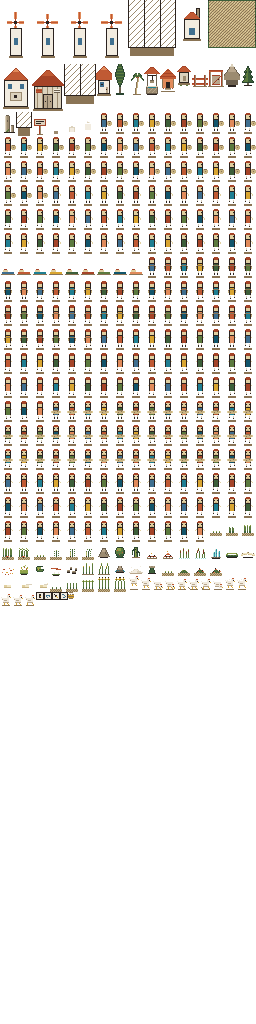
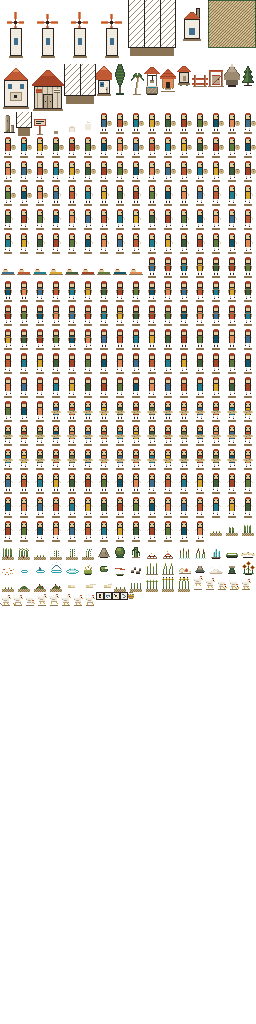
Add sunflower, shell and leaping-fish decor props (#61)
- prop.sunflowers: summer-only (season 1) patch on open grass, away from forest edge
- prop.shells: scallop, starfish and spiral shell on sand touching water
- prop.fishSplash: four-frame leap on sparse deep water, staggered per tile
  via propFrame() so the sea does not animate in unison
- New rolls are appended after existing ones so current decor placement is unchanged

Claude-Session: https://claude.ai/code/session_019h86th9zYu76KdLHc5i7bM

Changed region(s): [[0.0, 0.5312, 1.0, 0.5938]]

diff --git a/tools/genart/sprites/props.ts b/tools/genart/sprites/props.ts
@@ -543,6 +543,125 @@ export const STANDING_STONE: SpriteGrid = grid(16, 24, {
   for (let x = 4; x <= 14; x += 1) set(x, 20, 'i');
 });
 
+/** Summer sunflower patch. 16×16, anchorY 0 — the season slot between spring flowers and autumn leaves. */
+export const SUNFLOWERS: SpriteGrid = grid(16, 16, {
+  w: P.wheat,
+  l: P.terraLight,
+  d: P.terraDeep,
+  k: P.vegDarkest,
+  v: P.vegDark,
+  m: P.vegMid,
+  g: P.vegLight,
+  i: P.ink,
+}, (set) => {
+  // [centre x, centre y, stalk base y]: a tall head flanked by two shorter ones.
+  const heads: Array<[number, number, number]> = [[8, 3, 13], [4, 6, 13], [12, 7, 13]];
+  for (const [cx, cy, base] of heads) {
+    for (let y = cy + 2; y <= base; y += 1) set(cx, y, y % 2 === 0 ? 'k' : 'v');
+    // Petals around a dark seed disc, with warmer corners for depth.
+    for (const [dx, dy] of [[0, -2], [0, 2], [-2, 0], [2, 0], [-1, -1], [1, -1], [-1, 1], [1, 1]]) {
+      set(cx + dx, cy + dy, dx !== 0 && dy !== 0 ? 'l' : 'w');
+    }
+    set(cx, cy, 'd');
+    set(cx - 1, cy, 'd');
+    set(cx + 1, cy, 'd');
+    set(cx, cy - 1, 'd');
+    set(cx, cy + 1, 'd');
+  }
+  // Leaves on the tall stalk and a tuft of grass at the base.
+  set(7, 8, 'g');
+  set(6, 9, 'g');
+  set(9, 9, 'g');
+  set(10, 10, 'g');
+  for (let x = 3; x <= 13; x += 1) set(x, 13, x % 2 === 0 ? 'v' : 'm');
+  for (let x = 5; x <= 11; x += 1) set(x, 14, 'i');
+});
+
+/** Scallop shell, starfish and a spiral shell washed up on the beach. 16×16, anchorY 0. */
+export const SHELLS: SpriteGrid = grid(16, 16, {
+  w: P.whitewash,
+  p: P.sandPale,
+  l: P.terraLight,
+  t: P.terraMid,
+  d: P.terraDark,
+  r: P.sandMid,
+  c: P.sandShadow,
+}, (set) => {
+  // Scallop: a pale fan with ribs, widening towards the rim, and a hinge.
+  const fan = [1, 2, 3, 3];
+  fan.forEach((half, row) => {
+    const y = 8 + row;
+    for (let x = 6 - half; x <= 5 + half; x += 1) {
+      const edge = x === 6 - half || x === 5 + half || row === 0;
+      set(x, y, edge ? 'r' : x % 2 === 0 ? 'p' : 'w');
+    }
+  });
+  set(5, 12, 'r');
+  set(6, 12, 'r');
+  // Starfish: five arms around a dark centre.
+  for (const [sx, sy] of [[10, 8], [9, 9], [11, 9], [9, 11], [11, 11]]) set(sx, sy, 'l');
+  for (const [sx, sy] of [[10, 9], [10, 10], [9, 10], [11, 10], [10, 11]]) set(sx, sy, 't');
+  set(10, 10, 'd');
+  // Small spiral shell.
+  set(13, 12, 'w');
+  set(14, 12, 'p');
+  set(13, 11, 'p');
+  set(14, 11, 'r');
+  for (let x = 3; x <= 14; x += 1) set(x, 13, 'c');
+});
+
+/** Ellipse outline centred on (cx, cy) — the ripple rings around a leaping fish. */
+function ripple(set: (x: number, y: number, k: string) => void, cx: number, cy: number, rx: number, ry: number, key: string): void {
+  for (let x = cx - rx; x <= cx + rx; x += 1) {
+    const dy = Math.round(ry * Math.sqrt(1 - ((x - cx) / rx) ** 2));
+    set(x, cy - dy, key);
+    set(x, cy + dy, key);
+  }
+}
+
+/**
+ * A fish leaping from deep water: faint ripple → fish rising → arc with spray →
+ * rings spreading. 16×16, anchorY 0, four frames. The renderer staggers each tile's
+ * phase so the sea doesn't pulse in unison.
+ */
+function fishSplash(frame: number): SpriteGrid {
+  return grid(16, 16, {
+    f: P.foam,
+    w: P.whitewash,
+    b: P.shutter,
+    c: P.seaShallow,
+  }, (set) => {
+    if (frame === 0) {
+      ripple(set, 8, 11, 3, 1, 'c');
+    } else if (frame === 1) {
+      ripple(set, 8, 11, 4, 1, 'c');
+      for (let y = 7; y <= 10; y += 1) {
+        set(7, y, 'b');
+        set(8, y, y === 7 ? 'w' : 'b');
+      }
+      set(6, 9, 'f');
+      set(9, 9, 'f');
+    } else if (frame === 2) {
+      ripple(set, 8, 11, 5, 1, 'c');
+      const back: Array<[number, number]> = [[5, 7], [6, 6], [7, 5], [8, 5], [9, 5], [10, 6], [11, 7]];
+      for (const [fx, fy] of back) set(fx, fy, 'b');
+      for (const fx of [7, 8, 9]) set(fx, 6, 'w');
+      set(4, 8, 'b');
+      set(12, 8, 'b');
+      for (const [dx, dy] of [[4, 4], [12, 4], [8, 2], [13, 9], [3, 9]]) set(dx, dy, 'f');
+    } else {
+      ripple(set, 8, 11, 6, 2, 'c');
+      ripple(set, 8, 11, 3, 1, 'f');
+      for (const fx of [7, 8, 9]) set(fx, 9, 'f');
+      set(8, 8, 'w');
+      set(6, 8, 'f');
+      set(10, 8, 'f');
+    }
+  });
+}
+
+export const FISH_SPLASH_FRAMES: SpriteGrid[] = [0, 1, 2, 3].map(fishSplash);
+
 export interface PropSprite {
   grid: SpriteGrid;
   anchorY: number;
@@ -572,4 +691,7 @@ export const PROP_SPRITES: Record<string, PropSprite> = {
   'prop.fallenLeaves': { grid: FALLEN_LEAVES, anchorY: 0 },
   'prop.snowDrift': { grid: SNOW_DRIFT, anchorY: 0 },
   'prop.standingStone': { grid: STANDING_STONE, anchorY: 8 },
+  'prop.sunflowers': { grid: SUNFLOWERS, anchorY: 0 },
+  'prop.shells': { grid: SHELLS, anchorY: 0 },
+  'prop.fishSplash': { grid: FISH_SPLASH_FRAMES[0], anchorY: 0, frames: FISH_SPLASH_FRAMES },
 };

diff --git a/src/render/tilemap.test.ts b/src/render/tilemap.test.ts
@@ -224,10 +224,12 @@ describe('terrainProps', () => {
     expect(decor.length).toBeGreaterThan(0);
     const grassKeys = new Set([
       'prop.bush', 'prop.flowers', 'prop.stump', 'prop.deadfall', 'prop.mushroom', 'prop.campfire',
-      'prop.fallenLeaves', 'prop.pine', 'prop.standingStone', 'prop.snowDrift',
+      'prop.fallenLeaves', 'prop.pine', 'prop.standingStone', 'prop.snowDrift', 'prop.sunflowers',
     ]);
     const rockKeys = new Set(['prop.boulder', 'prop.pebbles', 'prop.crystal', 'prop.snowDrift']);
-    const sandKeys = new Set(['prop.palm', 'prop.reeds', 'prop.shoreRock', 'prop.driftwood', 'prop.cactus']);
+    const sandKeys = new Set([
+      'prop.palm', 'prop.reeds', 'prop.shoreRock', 'prop.driftwood', 'prop.cactus', 'prop.shells',
+    ]);
     for (const prop of decor) {
       const terrain = rows[prop.y][prop.x];
       expect([GRASS, SAND, ROCK, SHALLOW]).toContain(terrain);
@@ -280,6 +282,40 @@ describe('terrainProps', () => {
     expect(snow.length).toBeGreaterThan(0);
     expect(leaves.every((prop) => prop.season === 2)).toBe(true);
     expect(snow.every((prop) => prop.season === 3)).toBe(true);
+  });
+
+  it('tags summer sunflowers with season 1 and keeps them off the forest edge', () => {
+    const rows = Array.from({ length: 32 }, (_, y) =>
+      Array.from({ length: 32 }, (_, x) => (y < 4 && x % 4 === 0 ? FOREST : GRASS)),
+    );
+    const props = terrainProps(grid(rows));
+    const sunflowers = props.filter((prop) => prop.key === 'prop.sunflowers');
+    expect(sunflowers.length).toBeGreaterThan(0);
+    expect(sunflowers.every((prop) => prop.season === 1 && prop.decor)).toBe(true);
+    for (const prop of sunflowers) {
+      const neighbours = [[1, 0], [-1, 0], [0, 1], [0, -1]].map(([dx, dy]) => rows[prop.y + dy]?.[prop.x + dx]);
+      expect(neighbours).not.toContain(FOREST);
+    }
+  });
+
+  it('scatters shells on beach sand touching water, never on inland sand', () => {
+    const rows = [
+      Array.from({ length: 64 }, () => SAND),
+      Array.from({ length: 64 }, () => SAND),
+      Array.from({ length: 64 }, () => SAND),
+      Array.from({ length: 64 }, () => SHALLOW),
+    ];
+    const shells = terrainProps(grid(rows)).filter((prop) => prop.key === 'prop.shells');
+    expect(shells.length).toBeGreaterThan(0);
+    for (const prop of shells) expect(prop.y).toBe(2);
+  });
+
+  it('leaps fish only from deep water, sparsely, with no season gate', () => {
+    const rows = Array.from({ length: 48 }, () => Array.from({ length: 48 }, () => DEEP));
+    const props = terrainProps(grid(rows));
+    expect(props.length).toBeGreaterThan(0);
+    expect(props.every((prop) => prop.key === 'prop.fishSplash' && prop.decor && prop.season == null)).toBe(true);
+    expect(props.length).toBeLessThan(48 * 48 * 0.05);
   });
 
   it('tags spring flowers with season 0', () => {

diff --git a/src/render/tilemap.ts b/src/render/tilemap.ts
@@ -206,6 +206,9 @@ const SNOW_DRIFT_CHANCE = 0.06;
 const PEBBLE_CHANCE = 0.08;
 const CRYSTAL_CHANCE = 0.06;
 const CATTAIL_CHANCE = 0.14;
+const SUNFLOWER_CHANCE = 0.06;
+const SHELL_CHANCE = 0.1;
+const FISH_SPLASH_CHANCE = 0.015;
 
 function neighbourTerrain(
   tiles: ArrayLike<number>,
@@ -259,7 +262,14 @@ function decorFor(tiles: ArrayLike<number>, width: number, height: number, x: nu
     if (!nearForest && hash01(x, y, DECOR_SALT + 4) < CAMPFIRE_CHANCE) return { key: 'prop.campfire' };
     if (!nearForest && hash01(x, y, DECOR_SALT + 7) < STANDING_STONE_CHANCE) return { key: 'prop.standingStone' };
     if (roll < BUSH_CHANCE) return { key: 'prop.bush' };
+    // Summer's own prop. Rolled after the year-round scatter so it only claims bare tiles.
+    if (!nearForest && hash01(x, y, DECOR_SALT + 11) < SUNFLOWER_CHANCE) {
+      return { key: 'prop.sunflowers', season: 1 };
+    }
     return hash01(x, y, DECOR_SALT + 8) < SNOW_DRIFT_CHANCE ? { key: 'prop.snowDrift', season: 3 } : null;
+  }
+  if (t === 0) {
+    return hash01(x, y, DECOR_SALT + 12) < FISH_SPLASH_CHANCE ? { key: 'prop.fishSplash' } : null;
   }
   if (t === 5) {
     if (touchesTerrain(tiles, width, height, x, y, [6]) && hash01(x, y, DECOR_SALT + 9) < CRYSTAL_CHANCE) {
@@ -286,6 +296,7 @@ function decorFor(tiles: ArrayLike<number>, width: number, height: number, x: nu
     const shoreRoll = hash01(x, y, DECOR_SALT + 3);
     if (touchesDeep && shoreRoll < SHORE_ROCK_CHANCE) return { key: 'prop.shoreRock' };
     if (shoreRoll < SHORE_ROCK_CHANCE + DRIFTWOOD_CHANCE) return { key: 'prop.driftwood' };
+    if (shoreRoll < SHORE_ROCK_CHANCE + DRIFTWOOD_CHANCE + SHELL_CHANCE) return { key: 'prop.shells' };
     return null;
   }
   if (roll < PALM_CHANCE) return { key: 'prop.palm' };
@@ -294,8 +305,8 @@ function decorFor(tiles: ArrayLike<number>, width: number, height: number, x: nu
 
 /**
  * Standing props for Forest (4) and Mountain (6), plus a deterministic decor
- * scatter (bushes, boulders, palms, reeds, foothill pines, seasonal leaves and
- * snow, …) on the open terrains. Not baked —
+ * scatter (bushes, boulders, palms, reeds, foothill pines, seasonal flowers,
+ * sunflowers, leaves and snow, beach shells, leaping fish, …) on the open terrains. Not baked —
  * they y-sort on the entity layer.
  */
 export function terrainProps(terrain: TerrainSnapshot): TerrainProp[] {

diff --git a/src/render/scene.test.ts b/src/render/scene.test.ts
@@ -7,6 +7,7 @@ import {
   buildDrawList,
   dyeIndex,
   facingFromDelta,
+  propFrame,
   type Facing,
 } from './scene';
 import type { BuildingDef, CropDef, TickSnapshot } from '../state/types';
@@ -443,4 +444,28 @@ it('renders chicken poses and baskets through the atlas and culls offscreen anim
   expect(list.find(e => e.id === 'egg:9:1')?.key).toBe('chicken.basket');
   for (const pose of ['walk', 'peck', 'scratch', 'sleep', 'startled', 'hop', 'tilt', 'rest']) expect(manifest.cells[`chicken.${pose}`]).toBeDefined();
   expect(manifest.cells.chicken_shelter).toBeDefined();
+});
+
+describe('propFrame', () => {
+  it('sways ordinary props in lockstep and freezes under reduced motion', () => {
+    const reeds = { x: 3, y: 4, key: 'prop.reeds' };
+    const other = { x: 40, y: 9, key: 'prop.reeds' };
+    expect(propFrame(24, reeds, 2, false)).toBe(propFrame(24, other, 2, false));
+    expect(propFrame(24, reeds, 2, true)).toBe(0);
+  });
+
+  it('staggers leaping fish so neighbouring tiles are not in unison', () => {
+    const frames = new Set<number>();
+    for (let x = 0; x < 16; x += 1) frames.add(propFrame(100, { x, y: 5, key: 'prop.fishSplash' }, 4, false));
+    expect(frames.size).toBeGreaterThan(1);
+    for (const frame of frames) expect(frame).toBeLessThan(4);
+  });
+
+  it('cycles every fish frame over time and rests on the ripple under reduced motion', () => {
+    const fish = { x: 11, y: 3, key: 'prop.fishSplash' };
+    const seen = new Set<number>();
+    for (let tick = 0; tick < 200; tick += 1) seen.add(propFrame(tick, fish, 4, false));
+    expect([...seen].sort()).toEqual([0, 1, 2, 3]);
+    expect(propFrame(57, fish, 4, true)).toBe(0);
+  });
 });

diff --git a/src/render/scene.ts b/src/render/scene.ts
@@ -31,6 +31,20 @@ export const MILL_TICKS_PER_FRAME = 4;
 export const SMOKE_TICKS_PER_FRAME = 8;
 export const DUST_TICKS_PER_FRAME = 5;
 export const SWAY_TICKS_PER_FRAME = 12;
+export const SPLASH_TICKS_PER_FRAME = 7;
+
+/**
+ * Animation frame for a terrain prop. Most scatter (reeds, cattails, campfires) sways in
+ * lockstep, but leaping fish are staggered per tile so the sea doesn't pulse in unison.
+ */
+export function propFrame(tick: number, prop: { x: number; y: number; key: string }, frames: number, reduceMotion: boolean): number {
+  if (prop.key === 'prop.fishSplash') {
+    // Offset in ticks (not frames) across one full cycle, so neighbours rarely share a frame.
+    const phase = (prop.x * 7 + prop.y * 13) % (SPLASH_TICKS_PER_FRAME * Math.max(frames, 1));
+    return animFrame(tick + phase, SPLASH_TICKS_PER_FRAME, frames, reduceMotion);
+  }
+  return animFrame(tick, SWAY_TICKS_PER_FRAME, frames, reduceMotion);
+}
 
 const STATE_MOVING = 1;
 const STATE_WORKING = 2;
@@ -363,7 +377,7 @@ export function buildDrawListWithStats(input: SceneInput): DrawListResult {
       rank: 1,
       id: `p:${prop.x},${prop.y}`,
       key: prop.key,
-      frame: animFrame(tick, SWAY_TICKS_PER_FRAME, cellFrames(atlas, prop.key), reduceMotion),
+      frame: propFrame(tick, prop, cellFrames(atlas, prop.key), reduceMotion),
       tileX: prop.x,
       tileY: prop.y,
       tileSize,

diff --git a/src/render/atlas.test.ts b/src/render/atlas.test.ts
@@ -62,9 +62,10 @@ describe('committed manifest', () => {
     }
     expect(manifest.cells['prop.cypress']).toBeDefined();
     expect(manifest.cells['prop.peak']).toBeDefined();
-    for (const key of ['prop.bush', 'prop.boulder', 'prop.palm', 'prop.reeds']) {
+    for (const key of ['prop.bush', 'prop.boulder', 'prop.palm', 'prop.reeds', 'prop.sunflowers', 'prop.shells']) {
       expect(manifest.cells[key]).toBeDefined();
     }
+    expect(manifest.cells['prop.fishSplash'].frames).toBe(4);
     expect(manifest.cells['villager.s.idle.0']).toBeDefined();
     expect(manifest.cells['bubble.tool']).toBeDefined();
   });

diff --git a/docs/props-and-assets-backlog.md b/docs/props-and-assets-backlog.md
@@ -13,7 +13,7 @@ is in [`progress.md`](../progress.md).
 |---|---|
 | Terrain bases | deep water, shallow water, sand, grass, rock — 4 variants each, plus fringes and animated foam |
 | Standing terrain props | `prop.cypress` (forest tiles), `prop.peak` (mountain tiles) |
-| Decor scatter | `prop.bush`, `prop.boulder`, `prop.palm`, `prop.reeds`, `prop.flowers`, `prop.stump`, `prop.deadfall`, `prop.mushroom`, `prop.shoreRock`, `prop.driftwood`, `prop.lilypad`, `prop.cactus`, `prop.campfire` (animated), `prop.pebbles`, `prop.crystal`, `prop.pine`, `prop.cattail` (animated), `prop.standingStone`, seasonal `prop.fallenLeaves` (autumn) and `prop.snowDrift` (winter) |
+| Decor scatter | `prop.bush`, `prop.boulder`, `prop.palm`, `prop.reeds`, `prop.flowers`, `prop.stump`, `prop.deadfall`, `prop.mushroom`, `prop.shoreRock`, `prop.driftwood`, `prop.lilypad`, `prop.cactus`, `prop.campfire` (animated), `prop.pebbles`, `prop.crystal`, `prop.pine`, `prop.cattail` (animated), `prop.standingStone`, `prop.sunflowers` (summer), `prop.shells` (beach), `prop.fishSplash` (animated, deep water), seasonal `prop.fallenLeaves` (autumn) and `prop.snowDrift` (winter) |
 | Buildings | hut, farm (+ field), granary, mill (animated sails + dust), bakery (animated chimney smoke), well, fence, gate, signpost, storehouse, 3 scaffold sizes |
 | Crops | wheat, 4 growth stages, sway animation on the ripe stage |
 | Characters | one villager body in 3 facings × idle/4-frame walk/lie-down, recolored into 6 dyes |
@@ -60,6 +60,7 @@ Roughly what each kind of addition costs, in the order the work happens:
 | Foothill pines | **Done.** `prop.pine` on grass touching mountain tiles — the mountain counterpart to forest-edge debris. |
 | Cattails | **Done.** `prop.cattail` (two-frame sway) on shallow water touching sand/grass/forest; lily pads stay on open water. |
 | Autumn leaves, winter snow | **Done.** `prop.fallenLeaves` (season 2) at forest margins and `prop.snowDrift` (season 3) on grass and rock, using the same season gate as flowers. |
+| Sunflowers, shells, leaping fish | **Done.** `prop.sunflowers` fills the missing summer slot (season 1) on open grass; `prop.shells` (scallop, starfish, spiral shell) on sand touching water; `prop.fishSplash`, a four-frame ripple/leap/spray cycle on sparse deep-water tiles. The splash is staggered per tile via `propFrame()` in `scene.ts` so the sea doesn't pulse in unison. |
 | Standing stones | **Done.** Very rare `prop.standingStone` landmark on open grass. |
 | Depleted-node art | `ResourceNode.amount` is already in the sim but invisible. A stump variant for an exhausted forest tile and a rubble variant for exhausted rock would make gathering readable. Needs nodes on the wire (they aren't in the tick snapshot today). |
 | Dirt paths worn by villagers | Track tile traversal counts in the sim, blend a path fringe over grass. Genuinely nice, genuinely not cheap. |

diff --git a/progress.md b/progress.md
@@ -91,7 +91,9 @@ npm run dev
   (spring-only), `prop.stump`/`prop.deadfall`/`prop.mushroom` (forest edge) on grass;
   `prop.boulder` on rock; `prop.palm`, `prop.cactus` (inland), `prop.reeds`, `prop.shoreRock`,
   `prop.driftwood` (shoreline) on sand; `prop.lilypad` on calm open shallow water;
-  `prop.campfire` (two-frame flame flicker) sparsely on open grass.
+  `prop.campfire` (two-frame flame flicker) sparsely on open grass; `prop.sunflowers` (summer-only)
+  on open grass; `prop.shells` on beach sand touching water; `prop.fishSplash` (four-frame leap,
+  per-tile phase offset) on sparse deep water.
 - `well` — a 1×1 amenity building (15 stone / 5 wood), unlocked at population 4, no jobs.
 - `fence`, `gate`, `signpost` — 1×1 zero-job decorative buildings.
 - `storehouse` — 2×2 wood/stone counterpart to the grain-only granary, with the same `haul` job.
